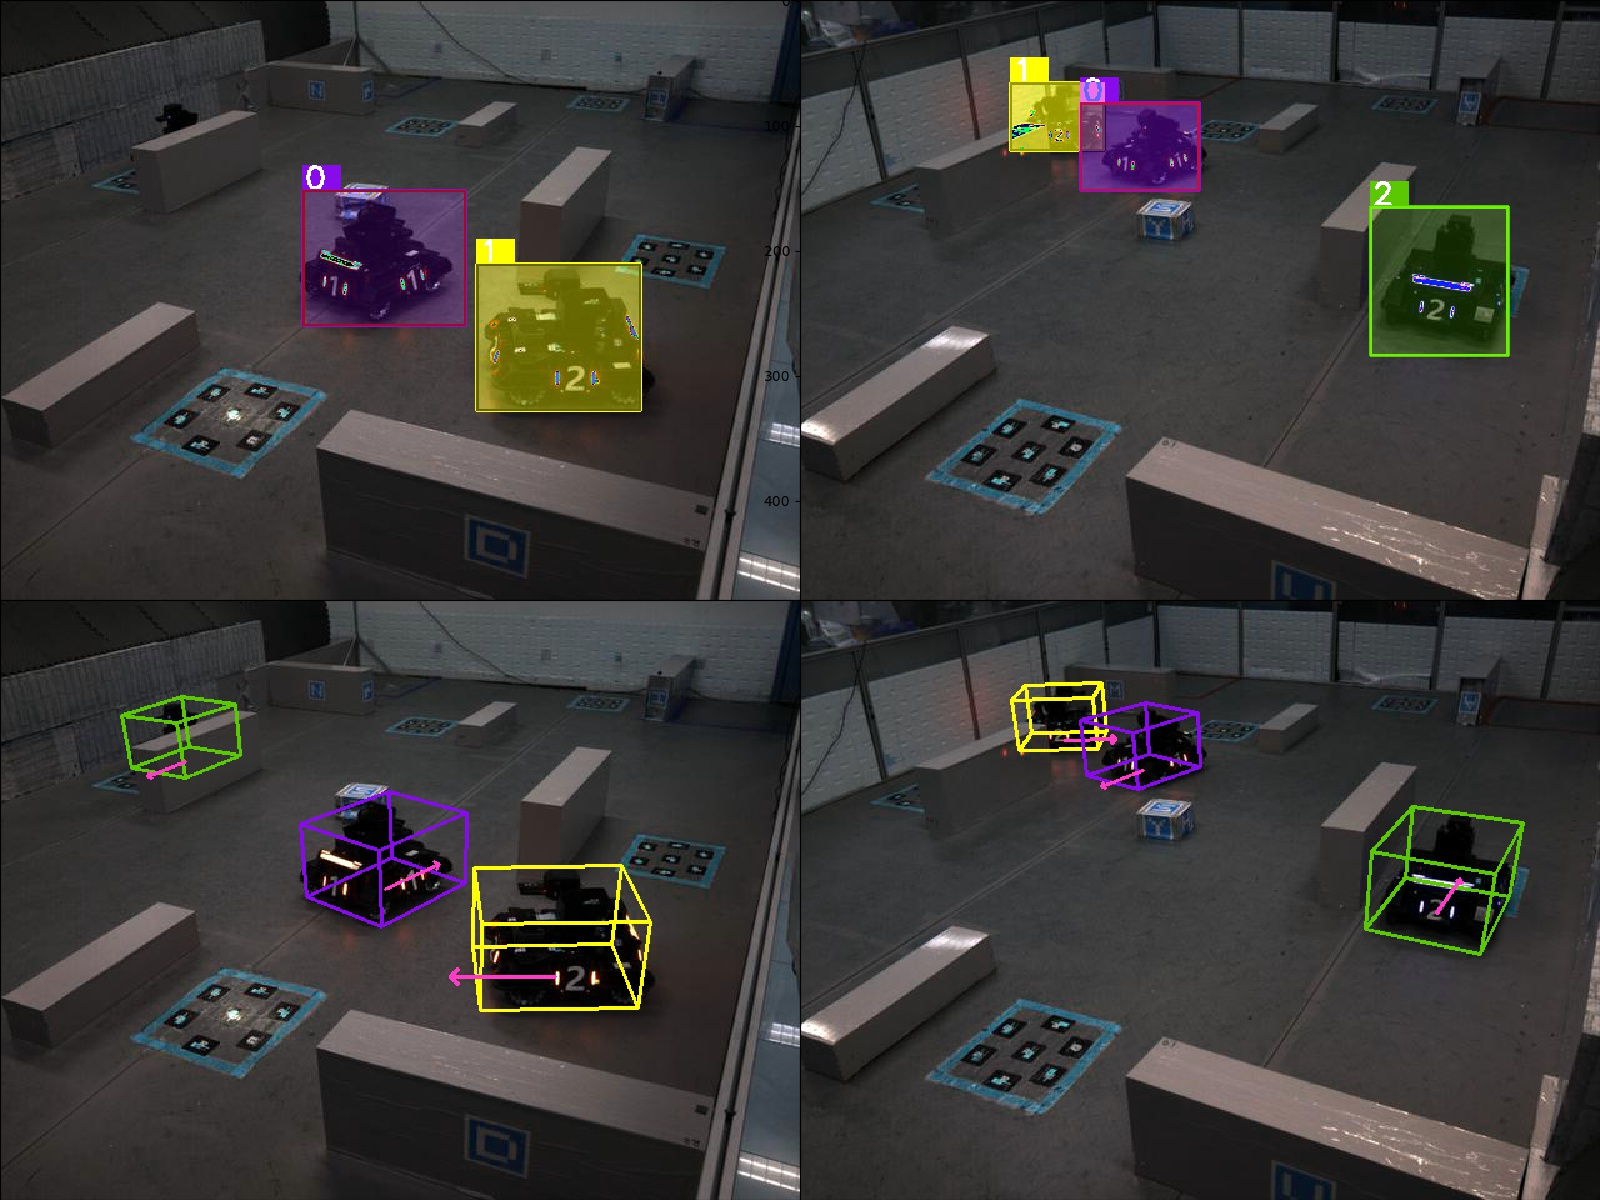
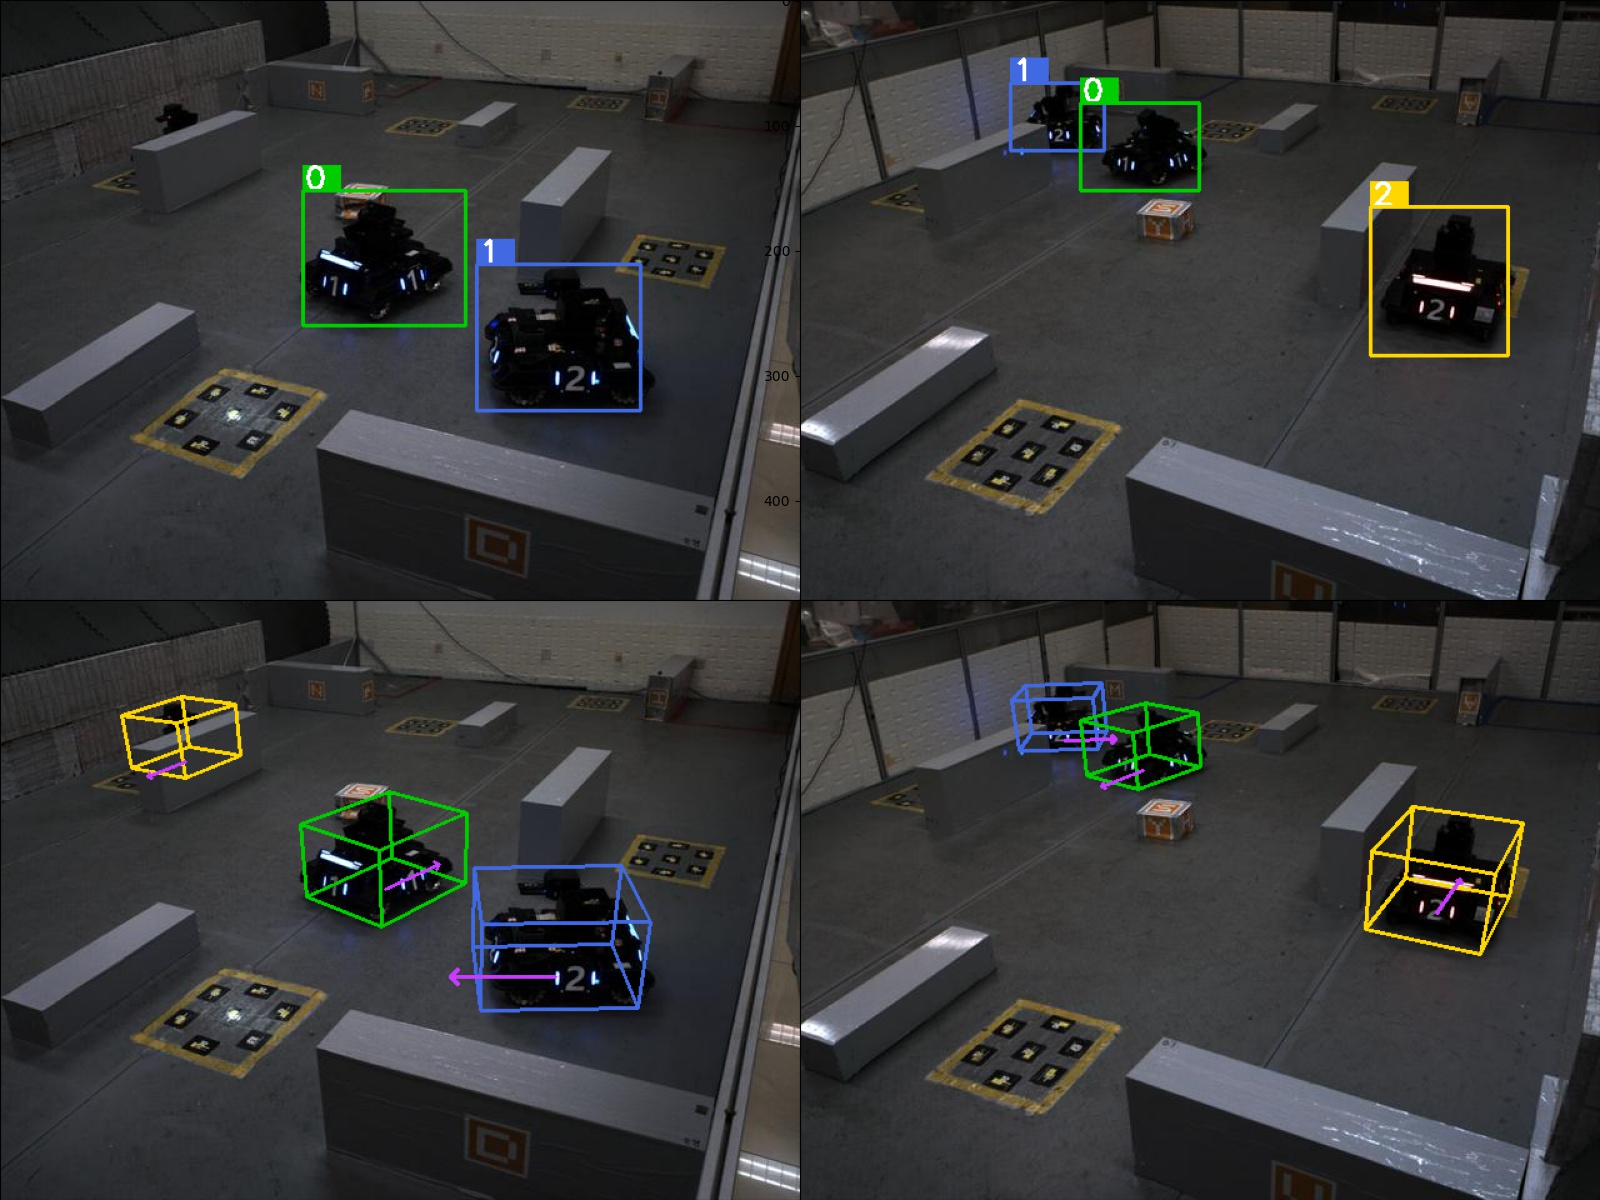
complete repo

diff --git a/src/neuronsdataset/visualizer.py b/src/neuronsdataset/visualizer.py
@@ -24,7 +24,7 @@ class Visualizer():
 
     def visualize(self, idx: int):
         imgs, anno, extrinsics, intrinsics = self.dataset.get_visualize_info(idx)
-        colors = [(255, 255, 0), (136, 11, 235), (90, 200, 2), (255, 255, 0), (126, 56, 190)]
+        colors = [(225, 105, 65), (0, 205, 0), (0, 215, 255), (0, 69, 255), (209, 95, 238)]
         if self.dataset_name == "sentry":
             annopath = anno[idx]
             frame_bev_box, frame_left_box, frame_right_box = self.prepare_bbox(annopath)
@@ -45,8 +45,8 @@ class Visualizer():
                     cv2.putText(left_front_image, str(frame_type[i]), (xmin + 2, ymin - 2), cv2.FONT_HERSHEY_SIMPLEX,
                                 color=(255, 255, 255), fontScale=0.8, thickness=2)
                     cv2.rectangle(left_front_image, (xmin, ymin), (xmax, ymax), color=colors[i], thickness=2)
-                    mask = cv2.fillPoly(left_zeros, np.array([points]), color=colors[i])
-                    left_front_image = 0.2 * mask + left_front_image
+                    # mask = cv2.fillPoly(left_zeros, np.array([points]), color=colors[i])
+                    # left_front_image = 0.2 * mask + left_front_image
 
                 ymin, xmin, ymax, xmax = frame_right_box[i]
                 points = [[xmin, ymin], [xmin, ymax], [xmax, ymax], [xmax, ymin]]
@@ -55,8 +55,8 @@ class Visualizer():
                     cv2.putText(right_front_image, str(frame_type[i]), (xmin + 2, ymin - 2), cv2.FONT_HERSHEY_SIMPLEX,
                                 color=(255, 255, 255), fontScale=0.8, thickness=2)
                     cv2.rectangle(right_front_image, (xmin, ymin), (xmax, ymax), color=colors[i], thickness=2)
-                    mask = cv2.fillPoly(right_zeros, np.array([points]), color=colors[i])
-                    right_front_image = 0.2 * mask + right_front_image
+                    # mask = cv2.fillPoly(right_zeros, np.array([points]), color=colors[i])
+                    # right_front_image = 0.2 * mask + right_front_image
 
             left_image = cv2.imread(imgs[0][idx])
             right_image = cv2.imread(imgs[1][idx])
@@ -193,13 +193,14 @@ class Visualizer():
             for plt_index in range(1, 5):
                 plt.subplot(2, 2, plt_index)
                 if plt_index == 1:
-                    plt.imshow(left_front_image.astype(np.uint8))
+                    # plt.imshow(left_front_image.astype(np.uint8))
+                    plt.imshow(cv2.cvtColor(left_front_image.astype(np.uint8), cv2.COLOR_BGR2RGB))
                 elif plt_index == 2:
-                    plt.imshow(right_front_image.astype(np.uint8))
+                    plt.imshow(cv2.cvtColor(right_front_image.astype(np.uint8), cv2.COLOR_BGR2RGB))
                 elif plt_index == 3:
-                    plt.imshow(left_image.astype(np.uint8))
+                    plt.imshow(cv2.cvtColor(left_image.astype(np.uint8), cv2.COLOR_BGR2RGB))
                 elif plt_index == 4:
-                    plt.imshow(right_image.astype(np.uint8))
+                    plt.imshow(cv2.cvtColor(right_image.astype(np.uint8), cv2.COLOR_BGR2RGB))
 
             plt.subplots_adjust(top=1, bottom=0, right=1, left=0, hspace=0, wspace=0)
             plt.margins(0, 0)

diff --git a/main.py b/main.py
@@ -1,14 +1,14 @@
 # import from local source codes
-# from src.neuronsdataset.dataset import FrameDataset
-# from src.neuronsdataset.visualizer import Visualizer
-# from src.neuronsdataset.sentryDataset import sentryDataset
-# from src.neuronsdataset.rgbDataset import rgbDataset
-# from src.neuronsdataset.rgbdDataset import rgbdDataset
-from neuronsdataset.dataset import FrameDataset
-from neuronsdataset.visualizer import Visualizer
-from neuronsdataset.sentryDataset import sentryDataset
-from neuronsdataset.rgbDataset import rgbDataset
-from neuronsdataset.rgbdDataset import rgbdDataset
+from src.neuronsdataset.dataset import FrameDataset
+from src.neuronsdataset.visualizer import Visualizer
+from src.neuronsdataset.sentryDataset import sentryDataset
+from src.neuronsdataset.rgbDataset import rgbDataset
+from src.neuronsdataset.rgbdDataset import rgbdDataset
+# from neuronsdataset.dataset import FrameDataset
+# from neuronsdataset.visualizer import Visualizer
+# from neuronsdataset.sentryDataset import sentryDataset
+# from neuronsdataset.rgbDataset import rgbDataset
+# from neuronsdataset.rgbdDataset import rgbdDataset
 
 import torchvision.transforms as T
 import torch

diff --git a/README.md b/README.md
@@ -1,4 +1,4 @@
-# Neurons Dataset - The official dataloader and visualization tools for Neurons Datasets.
+# Neurons Dataset API - The official dataloader and visualization tools for Neurons Datasets.
 ## Introduction
 We propose our dataloader API for loading and visualizing our RoboMaster opensource datasets. The datasets includes:
  
@@ -6,8 +6,38 @@ We propose our dataloader API for loading and visualizing our RoboMaster opensou
  * Vehicle mounted detection data [DRL-CASIA/ABCP](https://github.com/DRL-CASIA/ABCP), [DRL-CASIA/Detection-Datasets-for-ABCP](https://github.com/DRL-CASIA/Detection-Datasets-for-ABCP).
  * Vehicle mounted depth estimation data (In progress).
  
+ ![](sample_data/comb.png)
+ 
+## Dependencies
+Note that this API is only tested on ubuntu/Mac devices which has:
+* python 3.6+
+* torch 1.7.1
+* torchvision 0.8.2
+* ...
+
+    
+ 
 ## Installation
+First, clone this repo:
 ```
-git clone 
+git clone git@github.com:DRL-CASIA/NeuronsDataset.git
+cd NeuronsDataset
+```
+Then, pack the code into wheel packages for later installation:
+```
+conda activate YourEnv  # Activate your python environment first.
+cd src
+pip3 setup.py bdist_wheel
+```
+The commands above are expected generate a .whl file and several folders.
+
+Next, install the .whl package into your python3 environment using pip:
+```
+cd dist
+pip3 install neuronsdataset-1.0-py3-none-any.whl
 ```
 
+## Usage
+Please refer to [main.py](main.py) for details.
+
+We also provide samples of dataset mentioned in [Introduction](#introduction) section, which are contaied in [sample_data](sample_data).
